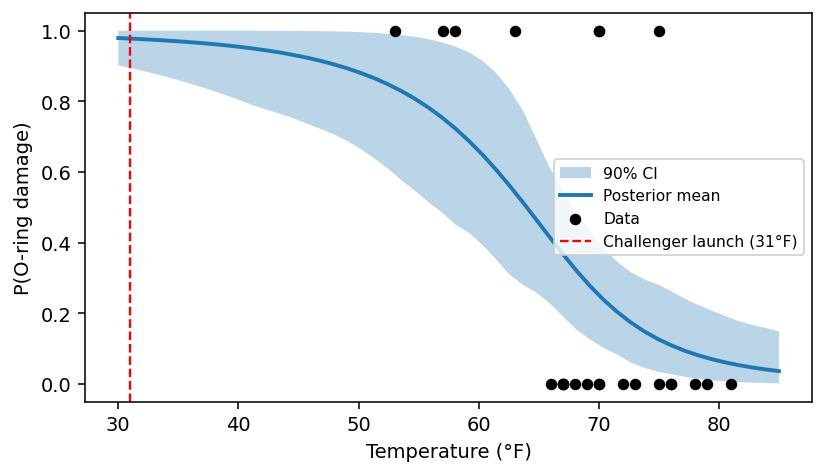
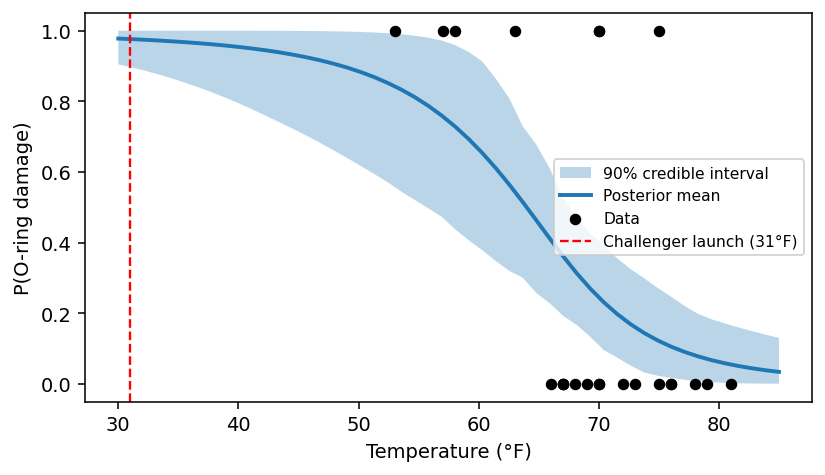
docs(readme): add Install quick link; tweak prose + plot legend
Three small README polish items:

- Add an **Install** link to the top-of-README quick-nav row
  (`Install | Getting Started | Documentation | API Reference`),
  anchored at the existing `## Installation` section.
- Tighten the prose around the `@user_function predict_prob`
  example: explicit "Monte Carlo approximation" framing, brief
  inline comments on the plotting block, and a small grammar tweak
  to the built-in ops intro line.
- Plot legend label updated from "90% CI" to "90% credible
  interval"; `docs/assets/images/readme_logistic.png` regenerated.

diff --git a/README.md b/README.md
@@ -4,6 +4,8 @@
 [![codecov](https://codecov.io/gh/TARPS-group/prob-pipe/branch/main/graph/badge.svg)](https://codecov.io/gh/TARPS-group/prob-pipe)
 [![docs](https://img.shields.io/badge/docs-tarps--group.github.io%2Fprob--pipe-blue)](https://tarps-group.github.io/prob-pipe/)
 
+**[Install](#installation)** | **[Getting Started](https://tarps-group.github.io/prob-pipe/tutorials/getting_started/)** | **[Documentation](https://tarps-group.github.io/prob-pipe/)** | **[API Reference](https://tarps-group.github.io/prob-pipe/)**
+
 ProbPipe is a Python framework for building scalable probabilistic pipelines with automated uncertainty quantification.
 
 ### Why ProbPipe?
@@ -25,7 +27,7 @@ ProbPipe addresses these challenges through a single design principle: **simplif
 
 ### Built-in operations
 
-ProbPipe provides a set of built-in **ops**, special workflow functions that dispatch based on a distribution's protocols:
+ProbPipe provides a set of built-in **ops**, which are special workflow functions that dispatch based on a distribution's protocols:
 
 - **`condition_on`**: condition a model on observed data, automatically selecting the best inference algorithm (or specify one with `method=`).
 - **`mean`**, **`variance`**, **`cov`**, **`expectation`**: compute distributional summaries, with automatic Monte Carlo fallback when exact computation is unavailable.
@@ -78,16 +80,20 @@ predictive = predict_prob(**posterior.select('intercept', 'slope'),
 # posterior mean: ~0.98 at 31°F, ~0.46 at 65°F
 ```
 
-`predict_prob` is a `@workflow_function`: ProbPipe samples from the posterior and evaluates the function for each draw, returning the full predictive distribution. The two posterior fields are splatted from a single parent, so ProbPipe draws them jointly — each `(intercept, slope)` pair stays correlated. Plotting the full predictive curve across the temperature range tells the story:
+Since `predict_prob` is constructed to be a workflow function, ProbPipe samples from the posterior and evaluates the function for each draw, yielding a Monte Carlo approximation to the full predictive distribution. The two posterior fields are extracted from a single parent, so their values are sampled jointly, ensuring each `(intercept, slope)` pair stays correlated. From there, we can easily plot the full predictive curve across:
 
 ```python
 import numpy as np, matplotlib.pyplot as plt
 
+# grid of temperature values
 t_grid = jnp.linspace(30, 85, 50)
+# predictive distribution at each temperature
 curves = predict_prob(**posterior.select('intercept', 'slope'), x=t_grid)
+# curves is a Distribution, so extract samples for plotting
 S = np.array(curves.samples)         # (n_draws, 50)
+# compute 90% credible intervals
 lo, hi = np.percentile(S, [5, 95], axis=0)
-plt.fill_between(np.array(t_grid), lo, hi, alpha=0.3, label='90% CI')
+plt.fill_between(np.array(t_grid), lo, hi, alpha=0.3, label='90% credible interval')
 plt.plot(np.array(t_grid), S.mean(axis=0), lw=2, label='Posterior mean')
 plt.scatter(np.array(temperature), np.array(damage), s=20, label='Data')
 plt.axvline(31, ls='--', color='red', label='Challenger launch (31°F)')
@@ -167,3 +173,5 @@ for setup details, deployment notes, and current support boundaries.
 ## Contributing
 
 See [CONTRIBUTING.md](CONTRIBUTING.md) for development setup, PR workflow, and guidelines.
+
+